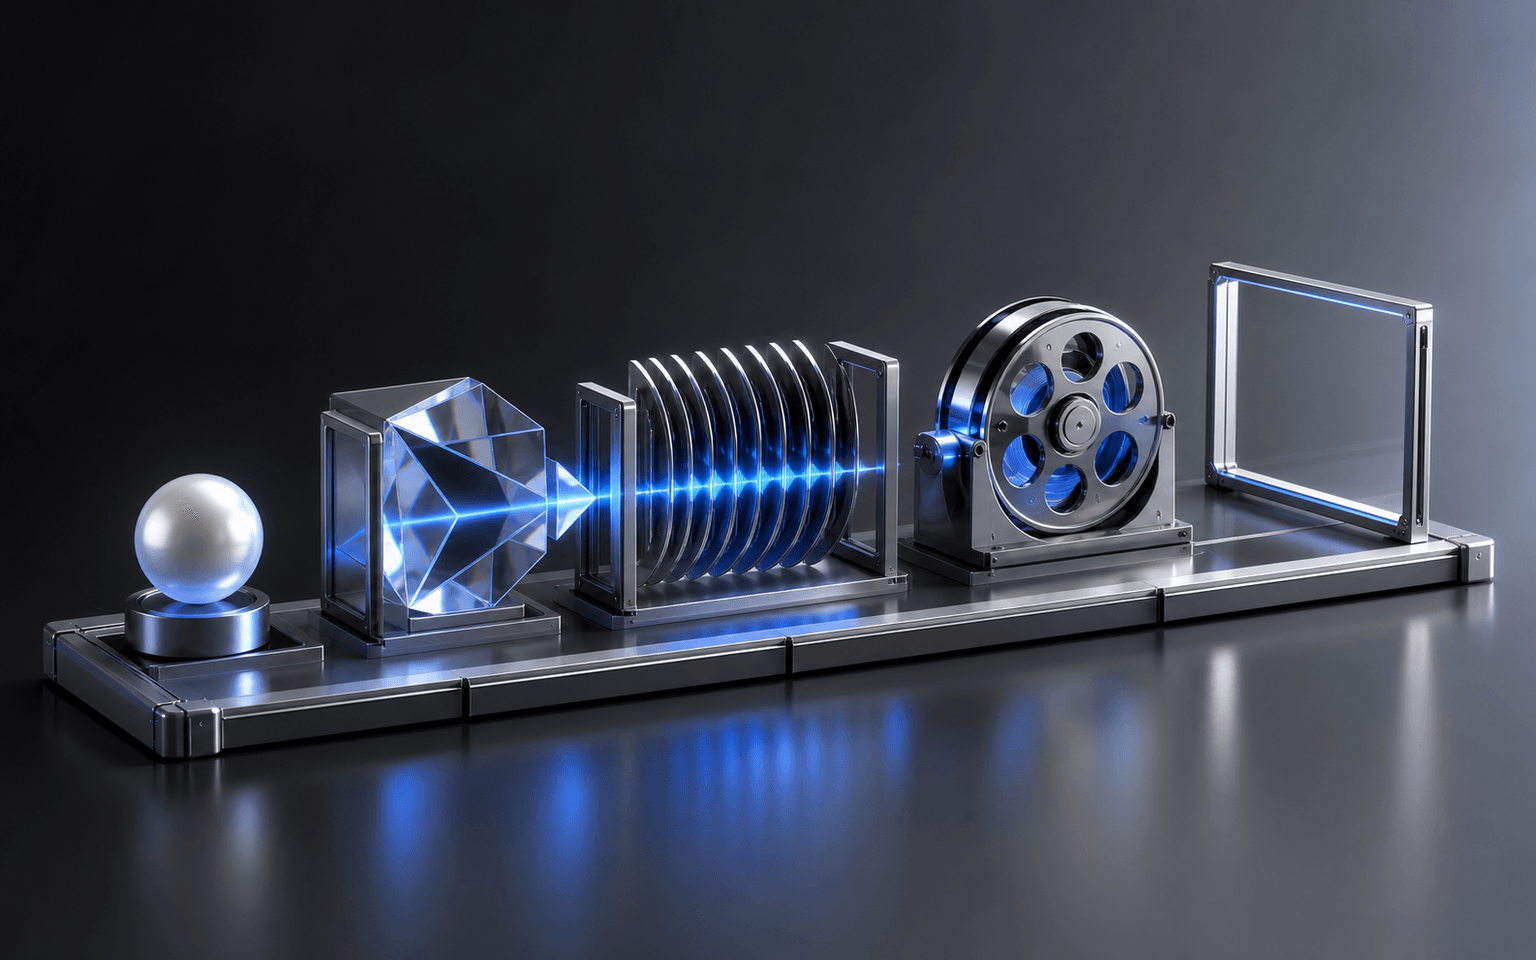
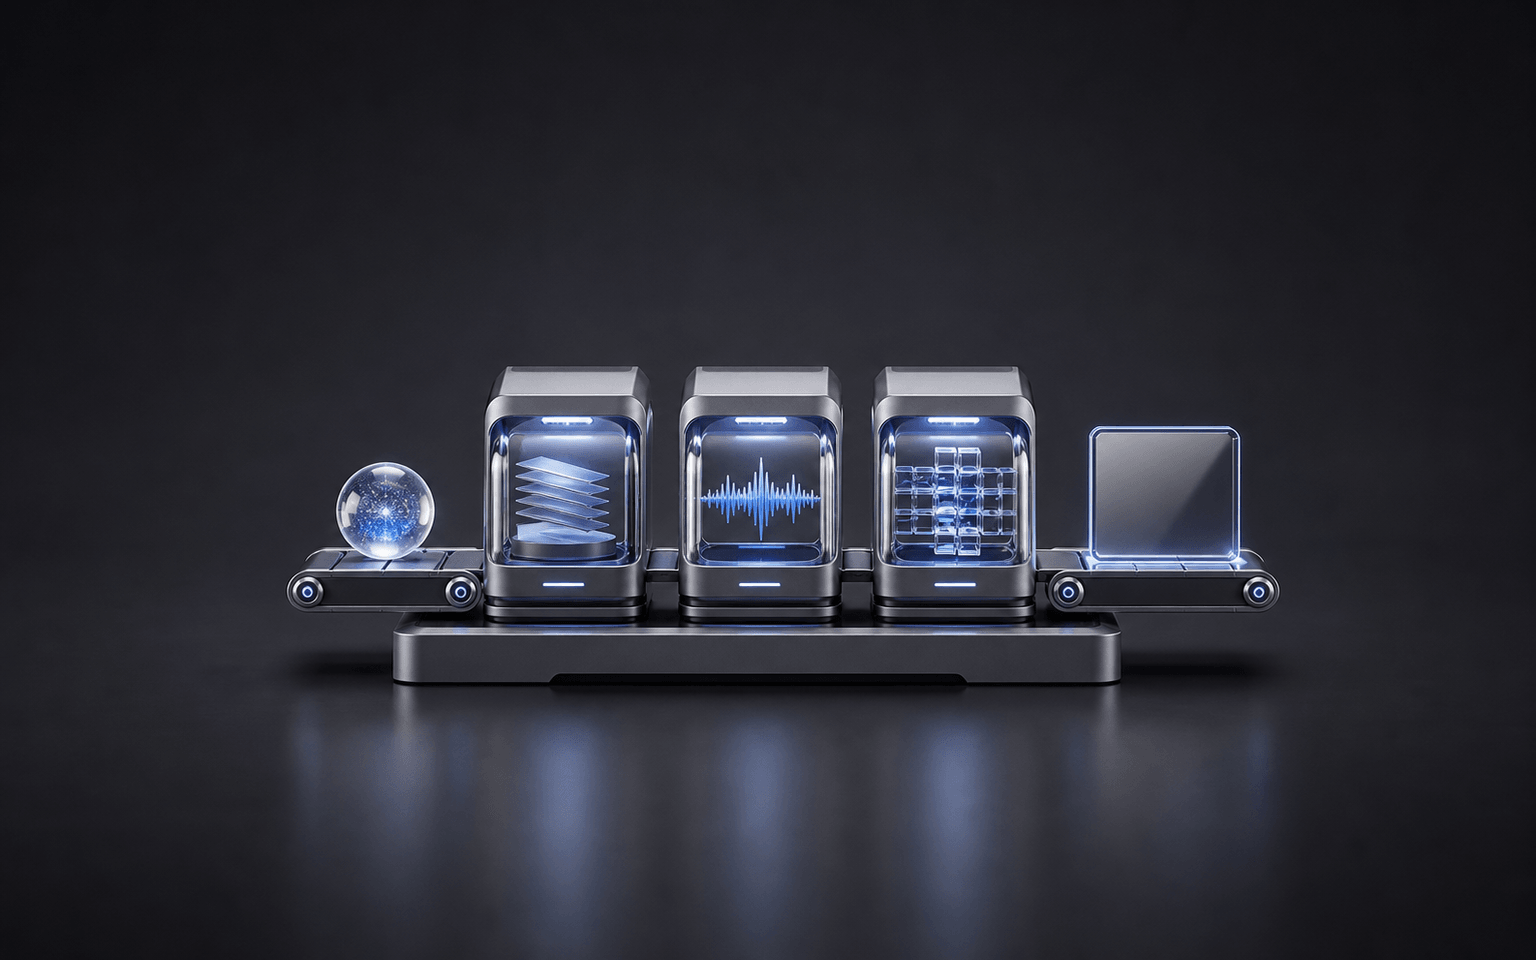
fix: refine cover category and safe area

diff --git a/.superpowers/sdd/task-5-report.md b/.superpowers/sdd/task-5-report.md
@@ -1,59 +1,36 @@
-# Task 5 Review Fix Report
+# Task 5 Implementation Report
 
-## Review Findings
+## Scope
 
-The previous Task 5 implementation left three review issues unresolved:
+Replaced all 12 public content covers with separately generated editorial 3D assets following the approved QIFEI visual system.
 
-1. `ContentCard.astro` applied `height: 100%` to both the card and its inner grid. Equal-height grid rows stretched card images away from their declared `16 / 10` ratio.
-2. The AI 风向 section selected recent items by `originalUrl`, so Skill and Tool entries appeared as signals while the fixture dataset contained only one genuine `AI Signal`.
-3. `vitest.config.ts` did not limit test discovery, so the standard `npm test` gate collected the Playwright E2E suite and failed.
+## Implementation
 
-The earlier report documented the Vitest failure and the one-signal fixture limitation as accepted state. This review fixes both instead of retaining them as caveats.
-
-## RED Evidence
-
-- Added desktop and mobile Playwright measurements for all five content-card images with an accepted rendered ratio of `1.58` to `1.62`.
-  - Before the fix, representative ratios were approximately `1.06` on desktop and `0.95` on mobile.
-- Added an E2E assertion that AI 风向 links exactly match the most recent fixture items whose type is `AI Signal`.
-  - Before the fix, the section rendered four links: three Skill/Tool links plus the single real signal link.
-- Added unit assertions requiring three to five genuine AI Signal fixtures, synchronized public JSON, and `tests/unit/**/*.test.ts` as the Vitest include pattern.
-  - Before the fix, the fixture count was `1`, `public/data/content.json` was absent, and the Vitest include value was undefined.
-
-## Fixes
-
-- Removed the card and inner-grid `height: 100%` rules. Card images now use `width: 100%`, `height: auto`, `aspect-ratio: 16 / 10`, `object-fit: cover`, and `align-self: start`.
-- Changed homepage signal selection to filter strictly on `item.type === "AI Signal"` before applying the recent-item limit.
-- Added two complete, public, non-sensitive AI Signal fixtures based on official OpenAI and Anthropic announcements. Existing Skill and Tool types were not renamed.
-- Synchronized `src/generated/content.json` and `public/data/content.json` with the ten-item fixture dataset.
-- Limited Vitest discovery to `tests/unit/**/*.test.ts`.
-
-Homepage bounds remain one spotlight, five worth-trying cards, three AI signals, three ready-to-use items, and six recent updates.
+- Generated one source image per content record with the shared glass, precision metal, deep graphite stage, controlled studio lighting, and central safe-area rules.
+- Used blue accents for work-efficiency content, teal accents for team-practice content, and electric cyan accents for inspiration content.
+- Regenerated `recvpkPmXg47kl` after rejecting the first result for text-like artifacts and a literal image element.
+- Center-cropped each approved source with `sharp` to exactly `1536x960`.
+- Palette-optimized the PNG files at quality 92; final files are approximately 423-658 KB each.
 
 ## Verification
 
-- `npm test`
-  - Exit code 0.
-  - 3 unit test files passed, 37 tests passed.
-- `npm run test:e2e -- tests/e2e/home.spec.ts --project=desktop --project=mobile --reporter=line`
-  - Exit code 0.
-  - 9 tests passed and 1 desktop run of the mobile-only navigation test was skipped.
-  - Both viewports verified content-card image ratios, AI Signal semantics, image loading, and no horizontal overflow.
-- `npm run check`
-  - Exit code 0.
-  - 21 files checked with 0 errors, 0 warnings, and 0 hints.
-- `npm run build`
-  - Exit code 0.
-  - Astro check passed and the static `/index.html` route built successfully.
+- Visual contact-sheet review: all 12 assets share one design language while retaining distinct content metaphors.
+- Prohibited-content review: no words, letters, numbers, logos, UI screenshots, watermarks, or people in selected final assets.
+- Dimension and uniqueness script: 12/12 files are `1536x960`, ratio `1.6`, and SHA-256 hashes are unique.
+- `npm run build`: passed with 0 errors, 0 warnings, and 19 static pages built.
 
-## Files
+## Commit
 
-- `apps/web/src/components/ContentCard.astro`
-- `apps/web/src/pages/index.astro`
-- `apps/web/src/data/fixtures.ts`
-- `apps/web/src/generated/content.json`
-- `apps/web/public/data/content.json`
-- `apps/web/vitest.config.ts`
-- `apps/web/tests/e2e/home.spec.ts`
-- `apps/web/tests/unit/schema.test.ts`
-- `apps/web/tests/unit/vitest-config.test.ts`
-- `.superpowers/sdd/task-5-report.md`
+- `9433cdb assets: unify generated content covers`
+
+## Self-review
+
+- Changes are limited to the 12 controlled public cover paths.
+- Existing content records and image references did not require schema changes.
+- The original generated sources remain outside the repository; only normalized publishable assets are committed.
+
+## Review Fixes
+
+- Regenerated `recvpkPmXg47kl` as a compact centered production machine so input, processing modules, and output remain inside the mobile-safe central area.
+- Regenerated `recvpl0FB56298` with a clearly greener electric-aqua category accent and a compact orbital composition.
+- Revalidated both files at `1536x960` and reran the complete build successfully.